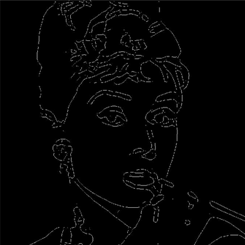
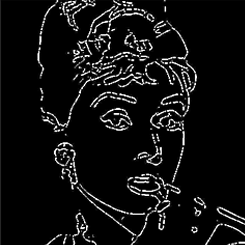
Added two more project descriptions and images

diff --git a/index.html b/index.html
@@ -55,15 +55,15 @@
     				<ul id="ExpIcons">
     					<li><img class="exp_logo" src="img/py_logo.png"></li>
     				</ul>
-    				<img id="SmBrd_1" src="img/port_info/SmBrd_1.png">
-    				<img id="SmBrd_2" src="img/port_info/SmBrd_2.png">
+    				<img class="port_info_img" id="SmBrd_1" src="img/port_info/SmBrd_1.png">
+    				<img class="port_info_img" id="SmBrd_2" src="img/port_info/SmBrd_2.png">
     				<p>In my second semester, I designed and built a program that would take an image of a hand drawn circuit diagram and render it neatly and professionally for use in a lab report or presentation.</p>
 
     				<p>My group chose this project after realizing that we could essentially automate the conversions we, as students, were doing, using services like Fritzing or LT Spice, to make hand-drawn circuit diagrams appropriate for our lab reports and presentations.</p>
-    				<img id="SmBrd_3" src="img/port_info/SmBrd_3.png">
+    				<img class="port_info_img" id="SmBrd_3" src="img/port_info/SmBrd_3.png">
     				<p>Above is the general pipeline we designed for our service. Our program took the input image in and converted it to black and white, and then to a matrix. We found the central lines of the diagram by looking at where the average darkness was greatest in the rows and columns of the matrix and cropped around segments of the diagram by finding intersections between these central lines.</p>
     				<p>Having isolated each segment, we searched each image for components by looking for any instance of non-white space above and below the central line of each segment. Once we found these instances, we were able to crop to the components within the segment by making an assumption above the maximum distance between each instance. We passed these into a machine learning classifier.</p>
-    				<img id="SmBrd_4" src="img/port_info/SmBrd_4.png">
+    				<img class="port_info_img" id="SmBrd_4" src="img/port_info/SmBrd_4.png">
     				<p>Using 526 images of hand-drawn resistors and capacitors, in addition to a slanted Gabor filter, our machine learning classifier was able to identify components as either a resistor or a capacitor. Once we identified which components were in each segment, we drew each segment and reassembled the drawing, now appropriate for a lab report or presentation.</p>
     				<p>For more information about our work, please check out our <a href="https://github.com/dinopants174/SmarterBoard" target="_blank">GitHub repository</a>.</p>
 				</div>
@@ -78,17 +78,50 @@
     					<li><img class="exp_logo" src="img/rpi_logo.png"></li>
     					<li><img class="exp_logo" src="img/ard_logo.png"></li>
     				</ul>
- 					<img id="TS_1" src="img/port_info/Team_Sailing_1.jpg">
+ 					<img class="port_info_img" id="TS_1" src="img/port_info/Team_Sailing_1.jpg">
  					<p>In the summer of 2014, I worked on Olin's campus as part of the Team Sailing Research team, with Research Scientist Alex Morrow. Our goal was to begin prototyping a system that would increase the autonomy of blind sailors on sailboats. By the end of the summer, we had succeeded in building a platform that took a blind sailor's input in the form of a key-press on a standard 12 button keypad. Each key-press corresponded to a certain piece of information that a Raspberry Pi computer would say aloud to the blind sailor.</p>
- 					<img id="TS_2" src="img/port_info/TS_2_v2.png">
+ 					<img class="port_info_img" id="TS_2" src="img/port_info/TS_2_v2.png">
  					<p>Above are two schematics detailing the current interactions of blind sailors and the way our system works in this context. Currently, two blind sailors sail with two sighted guides. The guides are using their vision to relay information to the blind sailors. Our system performs the same action but eliminates the middleman in the current system. The blind sailor only gets the information they requested from each key-press.</p>
- 					<img id="TS_3" src="img/port_info/TS_3.png">
+ 					<img class="port_info_img" id="TS_3" src="img/port_info/TS_3.png">
  					<p>The key-presses on our 12 button keypad were read and interpreted by an Arduino Uno, a microprocesser we used due to its easy prototyping capabilities and affordability. Once the Arduino Uno understood which key had been pressed, it communicated that over radio to a credit-card sized computer, the Raspberry Pi.</p>
  					<p>The Raspbeery Pi is constantly gathering data and, when it understands which key has been pressed, it performs a text-to-speech conversion. It reads the text file of whatever information that key corresponds to, converts it to an audio file, and recites the information aloud to the blind sailor.</p>
  					<p>For more information about this ongoing project, please contact <a href="http://www.olin.edu/faculty/profile/alexander-morrow/" target="_blank">Alex Morrow</a>.</p>
  				</div>
- 				<img class="portfolio_images" src="img/portfolio/im_2.png">
- 				<img class="portfolio_images" src="img/portfolio/im_9.png">
+ 				<a onclick="f_in(im_3_info)">
+ 					<img class="portfolio_images" src="img/portfolio/im_2.png">
+ 				</a>
+ 				<div class="im_info" id="im_3_info">
+ 					<h2 class="title">Python Oscar Predictor</h2>
+ 					<ul id="ExpIcons">
+ 						<li><img class="exp_logo" src="img/py_logo.png"></li>
+ 					</ul>
+ 					<img class="port_info_img" id="POP_1" src="img/port_info/pop_1.png">
+ 					<p>As part of a homework assignment second semester, I was tasked with gathering text from the web and using computation to perform some kind of linguistic analysis. I chose to work on an Oscar Predictor, which successfully predicted the Oscars in four categories approximately 5 hours before the actual awards show.</p>
+ 					<p>My partner and I gathered tweets under the hashtag #OscarPrediction2014 and sorted the tweets based on which actors, directors, actresses, and movies were mentioned in the body of the tweet. We performed sentiment analysis on each tweet and averaged the data. We produced the likelihood of positive or negative tweets that predicted who would win the Oscars in the categories of Best Actor, Best Film, Best Actress, and Best Director.</p>
+ 					<p>For Best Actor, we predicted Matthew McConaughey would win.</p>
+ 					<img class="port_info_img" id="POP_2" src="img/port_info/pop_2.png">
+ 					<p>For Best Film, we predicted 12 Years a Slave would win.</p>
+ 					<img class="port_info_img" id="POP_3" src="img/port_info/pop_3.png">
+ 					<p>For Best Actress, we predicted Cate Blanchett would win.</p>
+ 					<img class="port_info_img" id="POP_4" src="img/port_info/pop_4.png">
+ 					<p>For Best Director, we predicted Alfonso Cuaron would win.</p>
+ 					<p>For more information about this project, please check out our <a href="https://github.com/yunhsincynthiachen/Software-Design-Linguistics-Project" target="_blank">GitHub repository</a>.</p>
+ 				</div>
+ 				<a onclick="f_in(im_4_info)">
+ 					<img class="portfolio_images" src="img/portfolio/im_9.png">
+ 				</a>
+ 				<div class="im_info" id="im_4_info">
+ 					<h2 class="title">Optimizing Edge Detection</h2>
+ 					<ul id="ExpIcons">
+ 						<li><img class="exp_logo" src="img/matlab_logo.png"></li>
+ 					</ul>
+ 					<p>In my Linear Algebra and Differential Equations course, I used a combined Gaussian filter and Sobel operator to optimize finding edges in an image. Edge detection is used in the real world as an instrumental part of computer vision, machine vision, and image processing. My team used edge detection to cleanly identify faces and facial features.</p>
+ 					<img class="port_info_img" id="LA_1" src="img/port_info/LA_1.png">
+ 					<p>Starting with the above image of Audrey Hepburn, we applied the Sobel operator to the unchanged image itself. The resulting image, shown below, was particularly noisy, picking up on subtle changes in the pixels' brightness. Applying the Gaussian filter beforehand, as we learned in this project, smoothed out the pixels. Then using Sobel, we found we could quickly and efficiently get an accurate rendering of the edges and features of Audrey Hepburn's face.</p>
+ 					<img class="port_info_img" id="LA_2" src="img/port_info/LA_2.png">
+ 					<p>For more information about the mathematics, please check out our <a href="https://docs.google.com/presentation/d/1PdVAlRS5dY1hPeY5tSgWeNMmeAvR-spfEMYwX8h1g5o/edit?usp=sharing" target="_blank">project presentation</a>.</p>
+ 				</div>
+
  				<img class="portfolio_images" src="img/portfolio/im_4.png">
  				<img class="portfolio_images" src="img/portfolio/im_7.png">
  				<img class="portfolio_images" src="img/portfolio/im_5.png">

diff --git a/stylesheet.css b/stylesheet.css
@@ -150,53 +150,11 @@ html, body{
 	font-family: "Agency FB", "Rockwell";
 }
 
-#SmBrd_1{
-	width:375px;
+.port_info_img{
 	height:auto;
 	display: block;
 	margin:auto;
-}
-
-#SmBrd_2{
-	width:450px;
-	height:auto;
-	display:block;
-	margin:auto;
-}
-
-#SmBrd_3{
 	width:500px;
-	height:auto;
-	display:block;
-	margin:auto;
-}
-
-#SmBrd_4{
-	width:500px;
-	height:auto;
-	display:block;
-	margin:auto;
-}
-
-#TS_1{
-	width:450px;
-	height:auto;
-	display:block;
-	margin:auto;
-}
-
-#TS_2{
-	width:700px;
-	height:auto;
-	display:block;
-	margin:auto;
-}
-
-#TS_3{
-	width:775px;
-	height:auto;
-	display:block;
-	margin:auto;
 }
 
 #port_bg a:hover{
@@ -223,4 +181,32 @@ html, body{
 .exp_logo{
 	width:36px;
 	height:36px;
+}
+
+#POP_1{
+	width:500px;
+	height:auto;
+	display:block;
+	margin:auto;
+}
+
+#POP_2{
+	width:400px;
+	height:auto;
+	display:block;
+	margin:auto;
+}
+
+#POP_3{
+	width:500px;
+	height:auto;
+	display:block;
+	margin:auto;
+}
+
+#POP_4{
+	width:400px;
+	height:auto;
+	display:block;
+	margin:auto;
 }

diff --git a/smaller.css b/smaller.css
@@ -35,43 +35,60 @@
 		position: absolute;
 	}
 
-	.im_info{
+/*	.im_info{
 		top:75%;
-	}
+	}*/
 
 	#SmBrd_1{
-	width:100%;
-	/*height:auto;*/
+		width:100%;
 	}
 
 	#SmBrd_2{
 		width:100%;
-		/*height:auto;*/
 	}
 
 	#SmBrd_3{
 		width:100%;
-		/*height:auto;*/
 	}
 
 	#SmBrd_4{
 		width:100%;
-		/*height:auto;*/
 	}
 
 	#TS_1{
 		width:100%;
-		height:auto;
 	}
 
 	#TS_2{
 		width:100%;
-		height:auto;
 	}
 	
 	#TS_3{
 		width:100%;
-		height:auto;
+	}
+
+	#POP_1{
+		width:100%;
+	}
+
+	#POP_2{
+		width:100%;
+	}
+
+	#POP_3{
+		width:100%;
+	}
+
+	#POP_4{
+		width:100%;
+	}
+
+	#LA_1{
+		width:100%;
+	}
+
+	#LA_2{
+		width:100%;
 	}
 
 	#ExpIcons{
